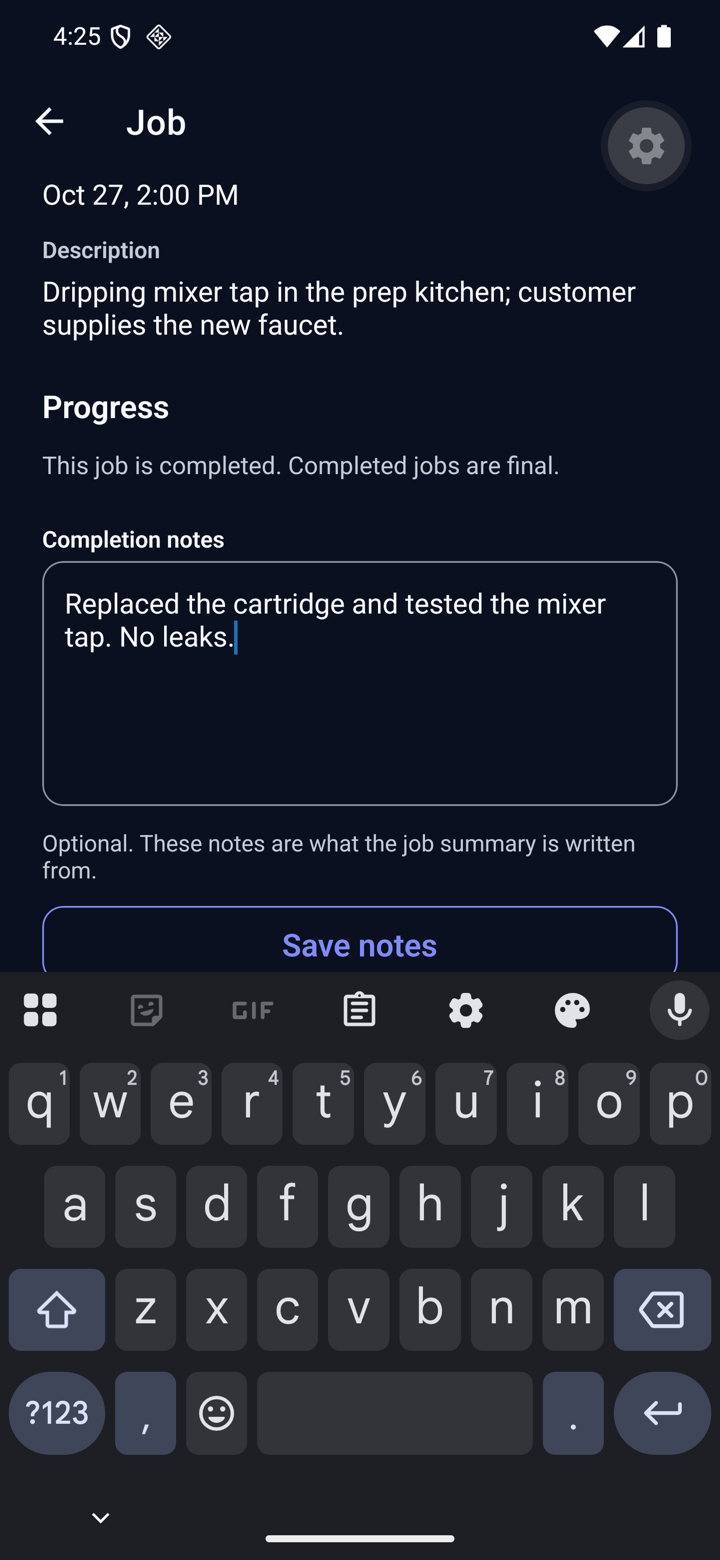
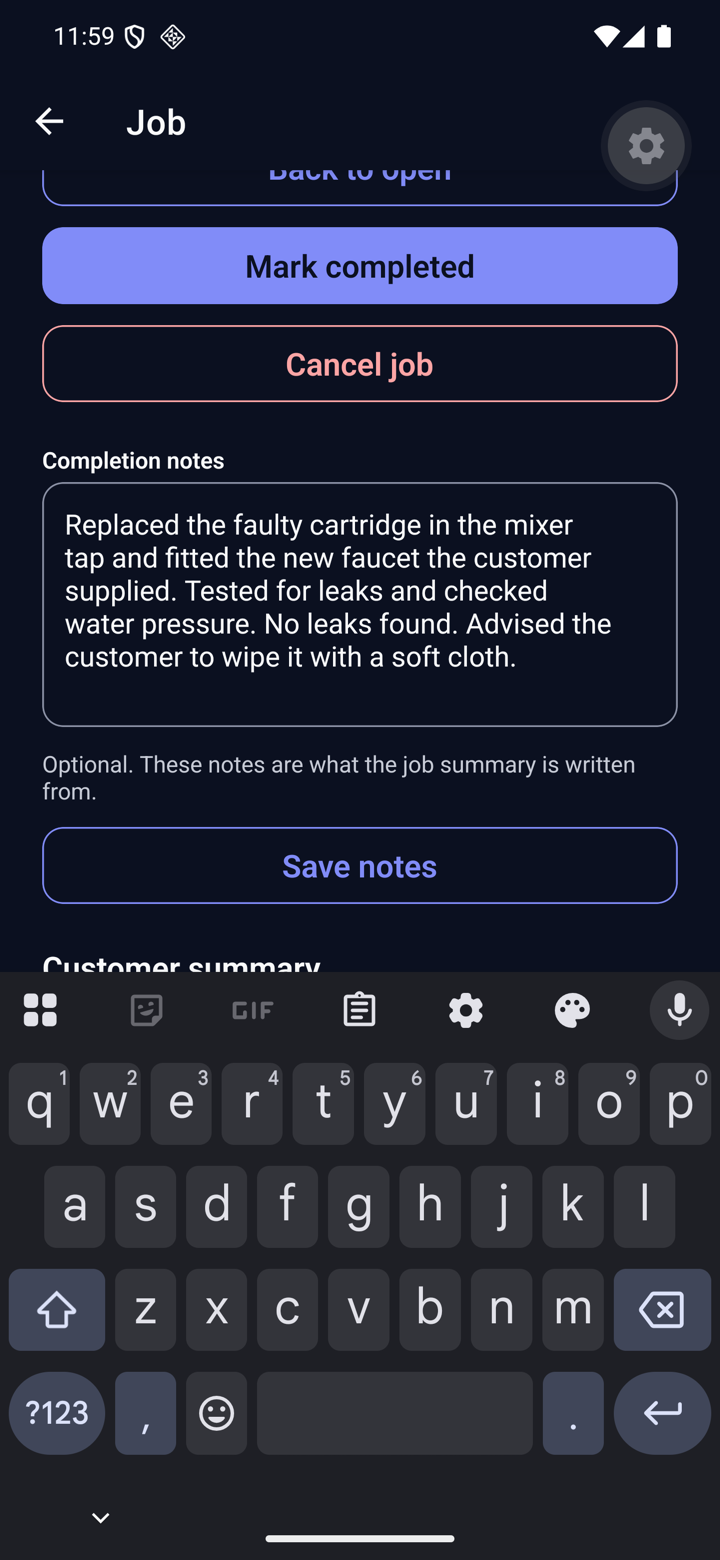
docs: retake the summary screenshots with the live model
Replaces the notes-with-keyboard, summary and share screenshots with captures from
the live Claude Haiku 5.5 summary on a fictional demo account (2026-11-03), and
updates the README caption, test plan and D-048 to say the live draft was seen in
the app on Android.

diff --git a/README.md b/README.md
@@ -116,7 +116,7 @@ Troubleshooting notes for the iOS simulator on Xcode 27 and for Android Expo Go 
 
 ## Screenshots
 
-All screenshots are from the **Android emulator** with a fictional demo account (dark mode). The summary screenshots were taken before the live model was connected, so they show the labelled "Demo summary" fallback. The iOS simulator was tested but not captured (see Status and [`docs/TEST_PLAN.md`](docs/TEST_PLAN.md)).
+All screenshots are from the **Android emulator** with a fictional demo account (dark mode). The summary screenshots (7 and 8) show the **live model** (2026-11-03). The iOS simulator was tested but not captured (see Status and [`docs/TEST_PLAN.md`](docs/TEST_PLAN.md)).
 
 <table>
   <tr>
@@ -130,7 +130,7 @@ All screenshots are from the **Android emulator** with a fictional demo account 
     <td align="center"><img src="docs/media/android-06-notes-keyboard.png" width="230" alt="Completion notes above the keyboard"><br><sub>6. Completion notes stay above the keyboard</sub></td>
   </tr>
   <tr>
-    <td align="center"><img src="docs/media/android-07-summary.png" width="230" alt="Customer summary draft labelled as a demo summary"><br><sub>7. Customer summary: editable draft, labelled "Demo summary" in demo mode</sub></td>
+    <td align="center"><img src="docs/media/android-07-summary.png" width="230" alt="Customer summary draft written by AI, editable before saving"><br><sub>7. Customer summary: written by the live model from the notes, editable before saving</sub></td>
     <td align="center"><img src="docs/media/android-08-share.png" width="230" alt="The Android share sheet with the summary text"><br><sub>8. Share the summary with the phone's share sheet</sub></td>
     <td align="center"><img src="docs/media/android-09-new-job.png" width="230" alt="New job form showing validation messages"><br><sub>9. New job: validation messages</sub></td>
   </tr>
@@ -154,7 +154,7 @@ All screenshots are from the **Android emulator** with a fictional demo account 
 
 - **One owner login per business.** No technician or customer accounts, no roles.
 - **No payments, invoices, calendar view, push notifications, photo attachments, search or offline mode.**
-- **AI summary:** the live model path was verified at the function level (deployed function, real key, spot checks). It has not been re-captured in screenshots, and the rate limit was tested in fallback mode rather than against the live model.
+- **AI summary:** the live model path was verified at the function level and seen in the app on Android (2026-11-03). The rate limit was tested in fallback mode rather than against the live model, and the spot checks for prompt injection and invented facts are heuristics, not proofs.
 - **Job status rules are enforced by the app, not the database** (tenant isolation is database-enforced and unaffected).
 - A business cannot be renamed or deleted in the app, and there is no account deletion (required before any store release).
 - Email confirmation is off for the demo; there is no password reset flow.

diff --git a/docs/DECISIONS.md b/docs/DECISIONS.md
@@ -310,7 +310,8 @@ One entry per non-obvious technical choice: what, why, alternatives.
 ## D-048 — The AI summary went live (2026-11-02)
 - **What:** the owner created an Anthropic Console account, bought $2.94 of credit with auto-reload **off** (so the balance itself caps spend), made a dedicated key in its own workspace, and stored it as the Supabase secret `ANTHROPIC_API_KEY`. The function was redeployed. This supersedes D-041 (which shipped M5 with the labelled mock).
 - **Verified (2026-11-02, deployed function, real key):** `npm run test:summary`: **21 of 21** checks with `source: ai`: authentication, input, ownership, empty notes, a real 129-character summary with no customer details, hidden instructions in the notes not obeyed, thin notes producing no invented prices, warranties or replaced parts. The `thinking: {type: "disabled"}` risk from D-041 did **not** materialise (the call succeeded).
-- **Not verified:** the draft was not viewed in the app after going live; the 10 per hour limit was not exercised against the live model (it was tested in fallback mode, 22 of 22, and in `test:rls`); the spot checks are heuristics. A fallback-mode run on 2026-11-02 returned 503 instead of 401 once for "publishable key used as a login"; later runs returned 401 and I could not explain it.
+- **Update 2026-11-03:** the live draft was viewed in the app on Android (fictional demo account): notes saved with Mark completed, Generate summary returned "Draft written by AI" text that stayed within the notes and the job description, Save wrote it, and the share sheet carried it. The README gallery shows these captures.
+- **Not verified:**  the 10 per hour limit was not exercised against the live model (it was tested in fallback mode, 22 of 22, and in `test:rls`); the spot checks are heuristics. A fallback-mode run on 2026-11-02 returned 503 instead of 401 once for "publishable key used as a login"; later runs returned 401 and I could not explain it.
 - **Incident, handled:** the first attempt to store the key created a secret whose *name* was the key, and a listing command displayed it in the chat. The owner revoked that key, deleted the secret, made a new key and added the secret in the dashboard. Lesson: set secrets in the dashboard (separate name and value boxes) and never list secrets in a shared transcript; list commands show names.
 - **Cost control:** credit balance (auto-reload off), a workspace spend limit, the 10 per hour and 30 per day per-user limits, a 20-second timeout and one attempt with no retries.
 

diff --git a/docs/TEST_PLAN.md b/docs/TEST_PLAN.md
@@ -13,11 +13,11 @@ Honest record of what is tested, how, and what is not. Updated at the end of eac
 | Secrets | **Clean**: no keys in the repo or in the 45+ commits of history | History and tree scans (D-044) |
 | Main journey on **Android** (sign-up to a completed job, summary, share, dashboard counts) | **Pass** | M4 and M5 tables, plus the 2026-10-26 walkthrough |
 | Main journey on **iOS** | **Verified by the owner** on the iOS simulator | Hands-on testing by the owner; no recorded checklist or screenshots (D-046) |
-| Live AI model | **Verified at the function level** | `source: ai`; prompt-injection and no-invented-facts spot checks pass (heuristics, not proofs); not yet viewed in the app after going live (D-048) |
+| Live AI model | **Verified at the function level** | `source: ai`; prompt-injection and no-invented-facts spot checks pass (heuristics, not proofs); seen in the app on Android after going live (2026-11-03: generate, save and share with a fictional demo account) |
 
 **Known issues and limits (none block the demo):**
 - iOS was tested by the owner on the simulator, but nothing is recorded: there is no checklist result or screenshot for iOS.
-- The live Claude call is verified at the function level only (D-048): not re-viewed in the app, the 10-per-hour limit was not exercised against the live model, and two spot checks are heuristics. One earlier fallback-mode run returned 503 instead of 401 for the publishable-key-as-token check and did not recur (cause unexplained).
+- The live Claude call is verified at the function level only (D-048): seen in the app on Android; the 10-per-hour limit was not exercised against the live model, and two spot checks are heuristics. One earlier fallback-mode run returned 503 instead of 401 for the publishable-key-as-token check and did not recur (cause unexplained).
 - Offline behaviour on the Dashboard and Job detail was not re-checked on a device in M6; TalkBack and VoiceOver were not run.
 - The two large-text fixes (count label, tab names) and the Android keyboard fix are verified by unit tests; only the keyboard fix was re-checked on the emulator afterwards.
 - Expo Router prints a development-only React warning on some first cold starts (D-027 open issue); nothing breaks.
